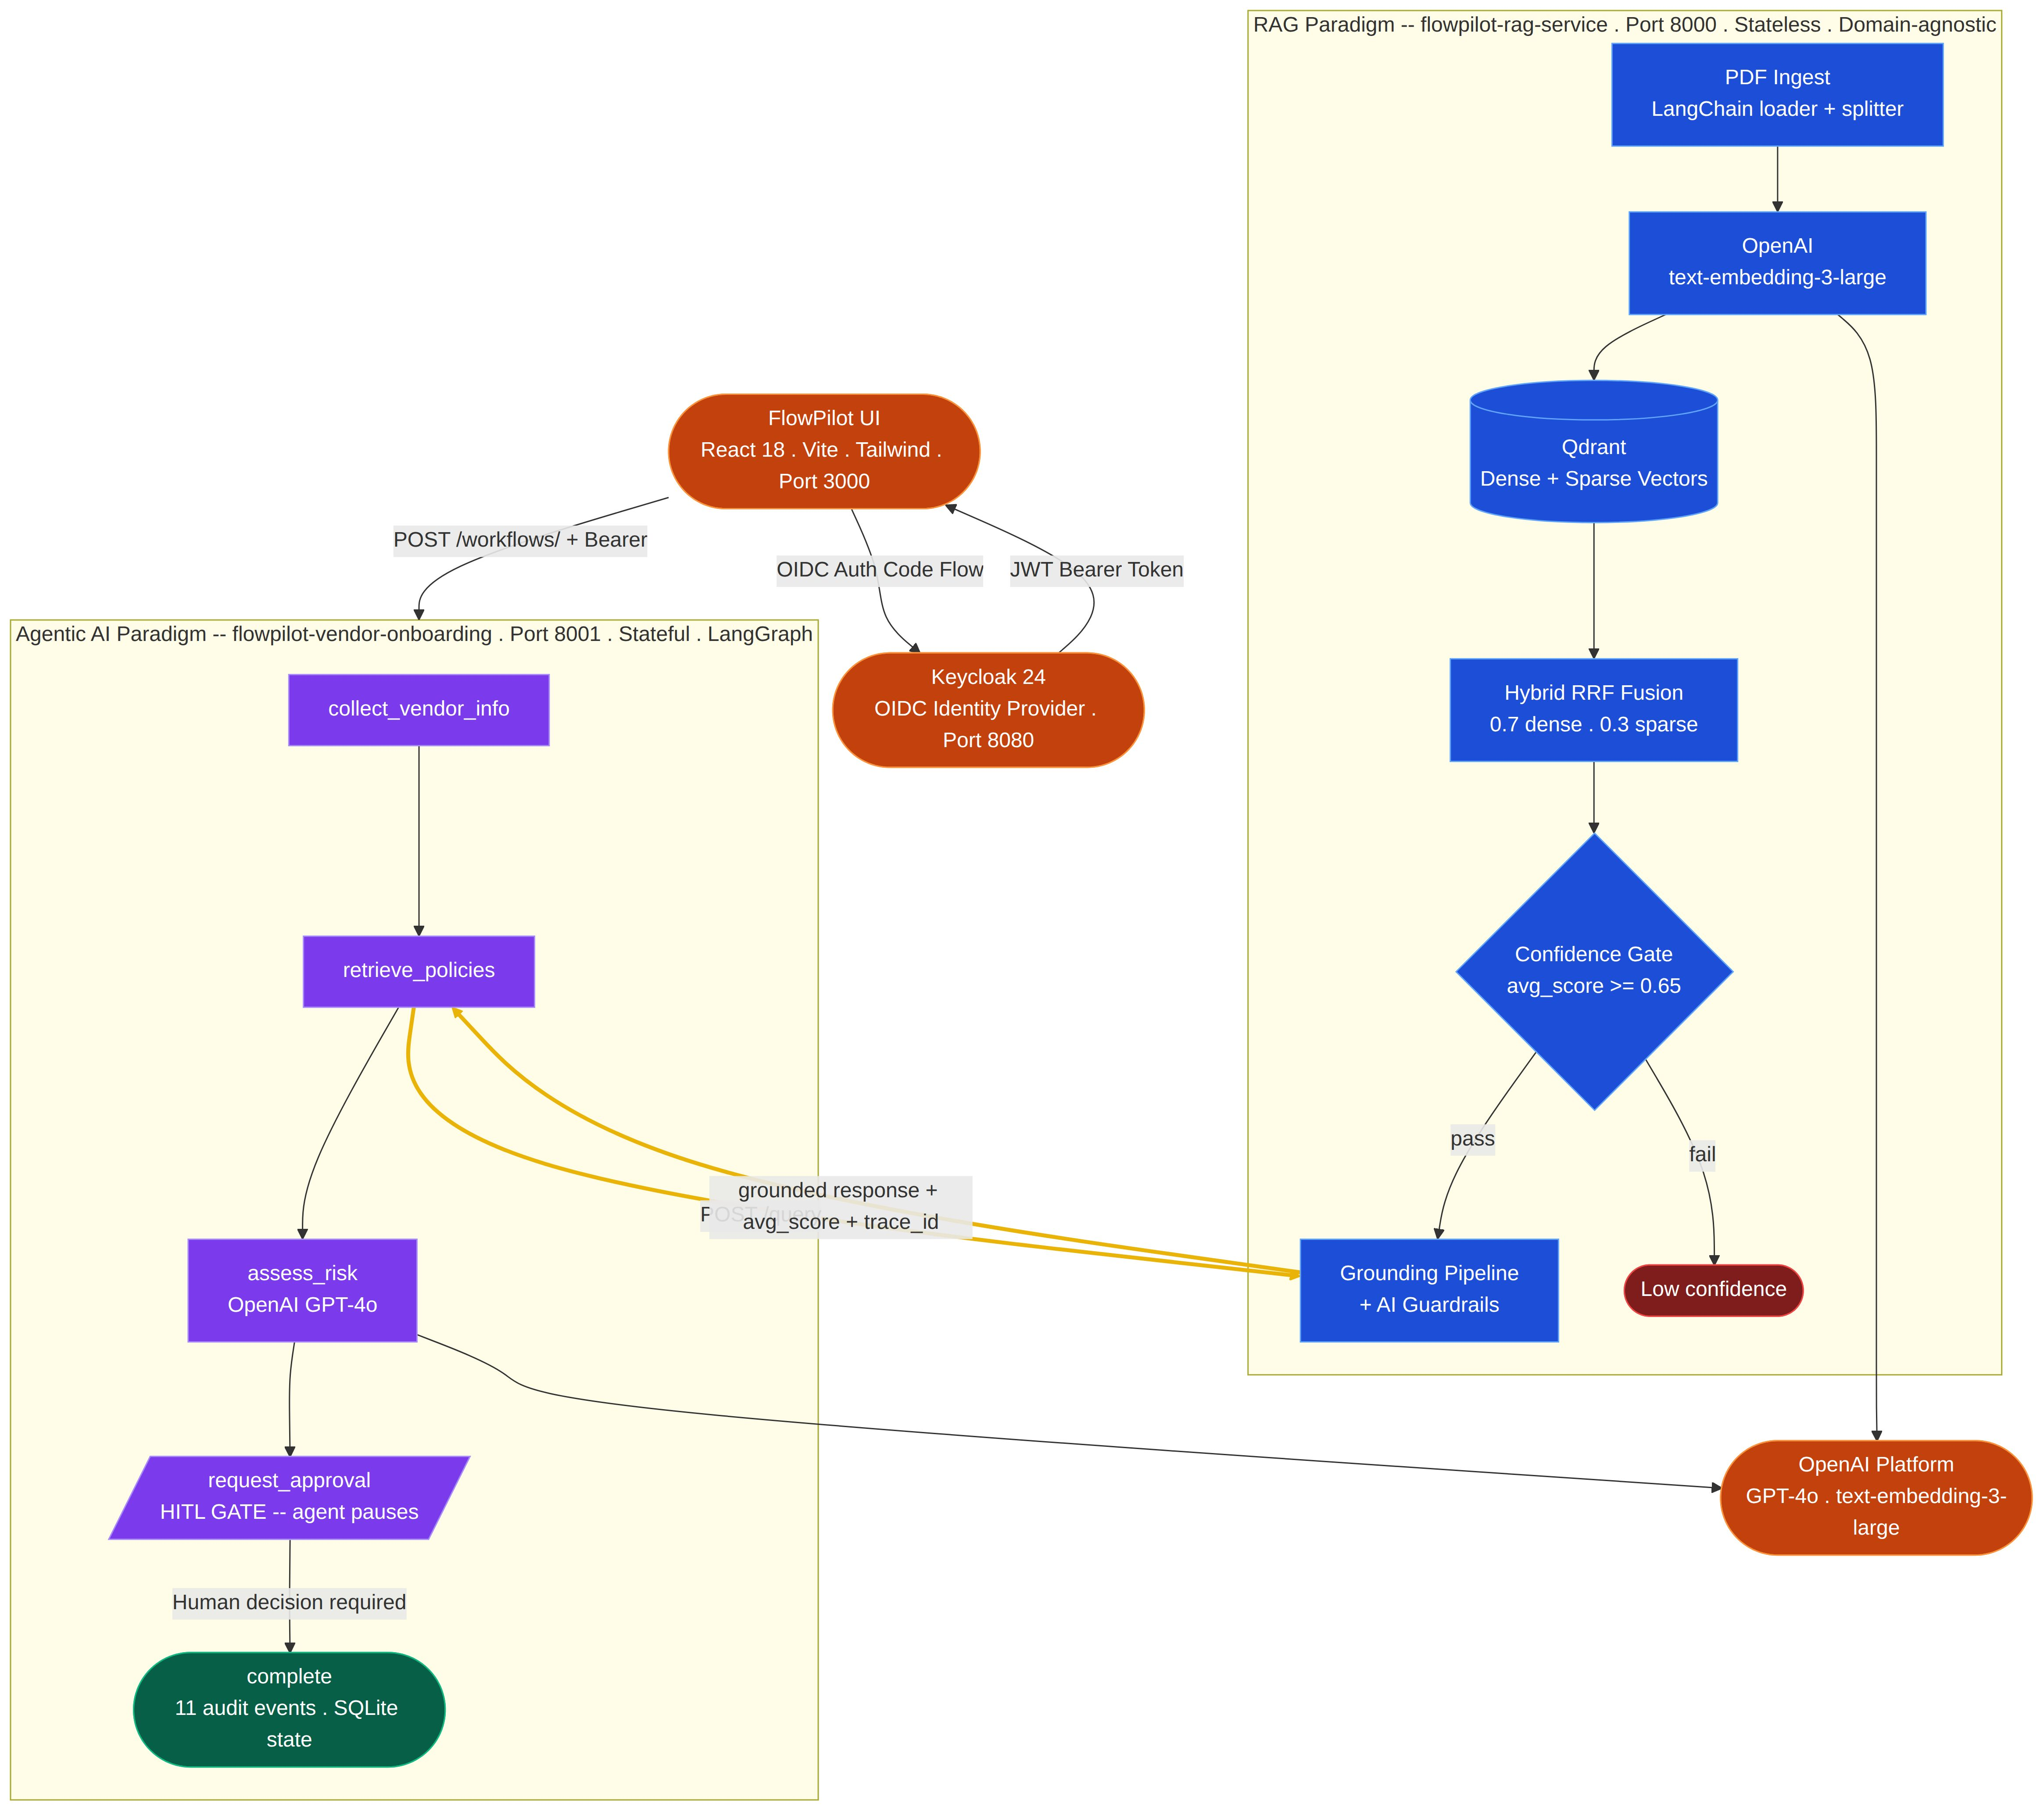
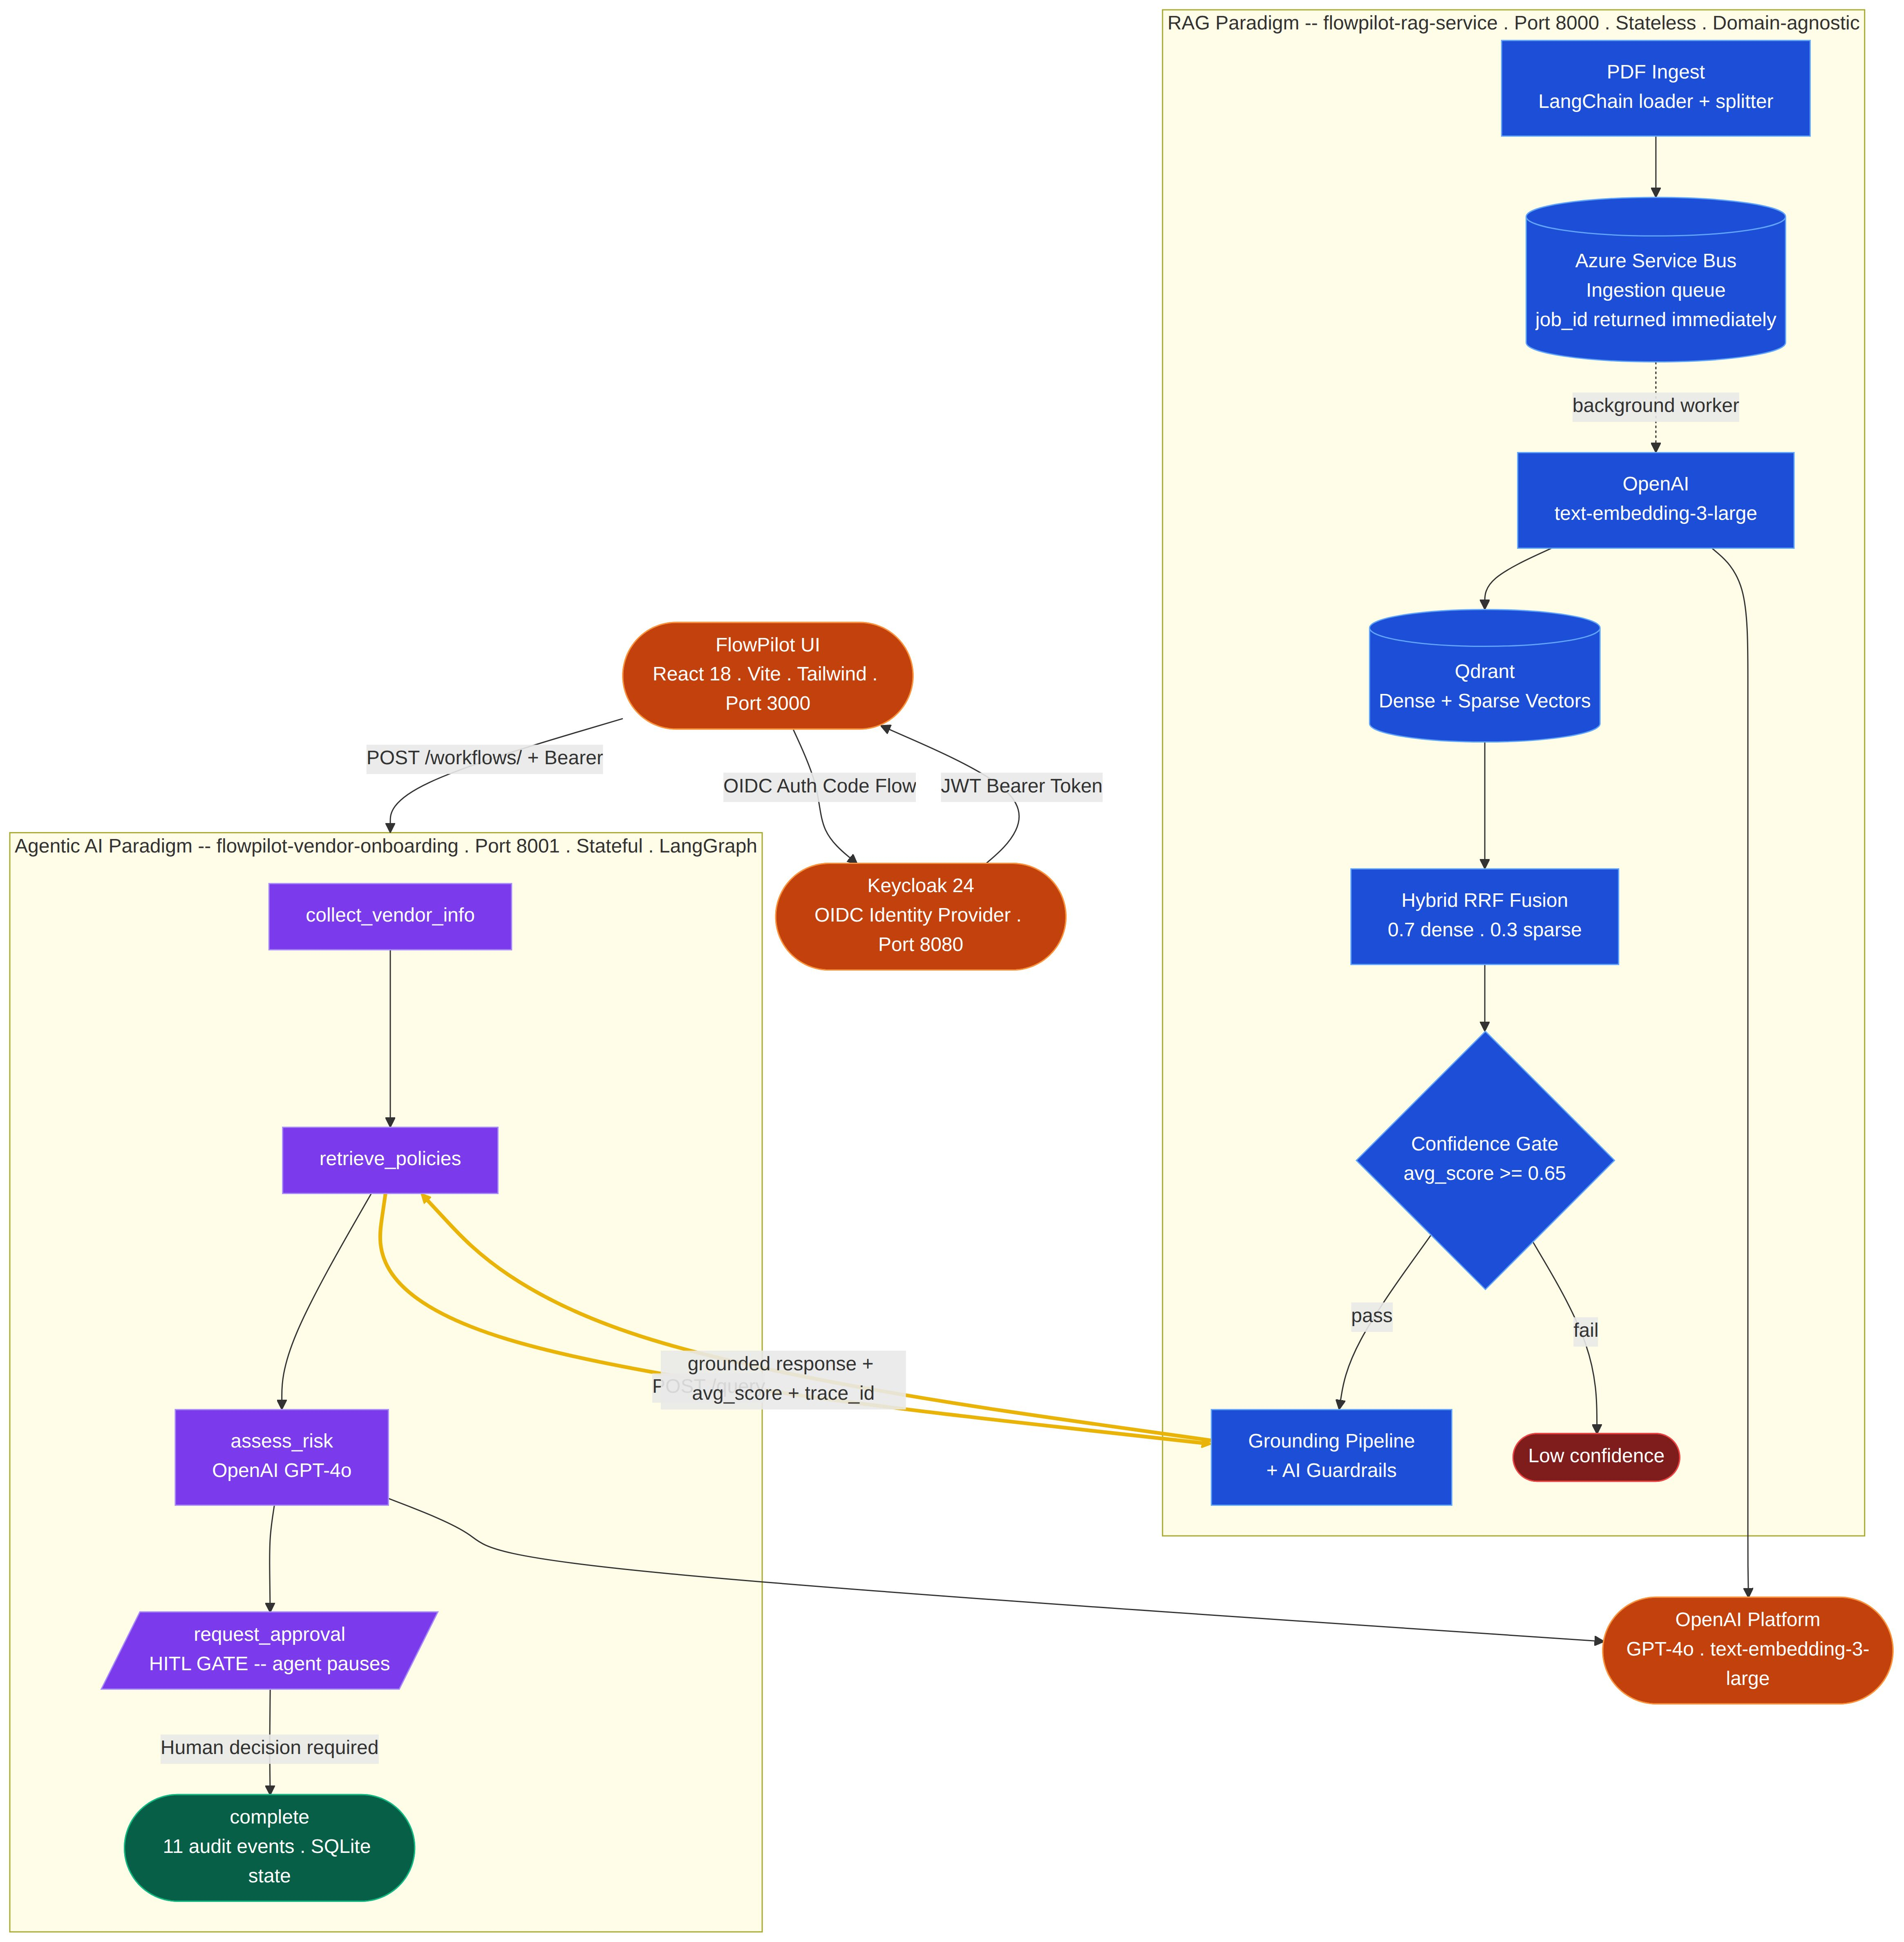
feat: ADR-013 Azure Service Bus — update all diagrams, README, ADR table, stack, release history

diff --git a/README.md b/README.md
@@ -184,6 +184,7 @@ Agentic AI applied where determinism suffices produces unpredictable, ungovernab
 | [ADR-010](adr/ADR-010-structlog-json-logging.md) | 🟠 Shared | Structured JSON logging over traditional logging |
 | [ADR-011](adr/ADR-011-no-reranking-layer.md) | 🔵 RAG | No dedicated reranking layer at portfolio scope |
 | [ADR-012](adr/ADR-012-keycloak-identity-provider.md) | 🟠 Shared | Keycloak as identity provider |
+| [ADR-013](adr/ADR-013-azure-service-bus-ingestion-queue.md) | 🔵 RAG | Azure Service Bus as async ingestion queue — production-ready by design |
 
 ---
 
@@ -333,10 +334,10 @@ FlowPilot is designed to operate as a **spoke** in the Microsoft Azure AI Foundr
 
 | Repository | Purpose |
 |---|---|
-| **flowpilot-docs** ← *you are here* | Architecture docs: C4 diagrams, 12 ADRs, governance model, sequence diagrams |
-| [flowpilot-rag-service](https://github.com/nitindra-soekhai/flowpilot-rag-service) | RAG: PDF ingestion, hybrid retrieval, grounding pipeline, guardrails |
-| [flowpilot-vendor-onboarding](https://github.com/nitindra-soekhai/flowpilot-vendor-onboarding) | Agentic AI: LangGraph state machine, HITL approval gate, SQLite state |
-| [flowpilot-ui](https://github.com/nitindra-soekhai/flowpilot-ui) | React 18 UI: 9 scenes, Keycloak OIDC, approval queue, audit trail |
+| **flowpilot-docs** ← *you are here* | Architecture docs: C4 diagrams, 13 ADRs, governance model, sequence diagrams |
+| [flowpilot-rag-service](https://github.com/nitindra-soekhai/flowpilot-rag-service) | RAG: async PDF ingestion (Azure Service Bus), hybrid retrieval, grounding pipeline, guardrails |
+| [flowpilot-vendor-onboarding](https://github.com/nitindra-soekhai/flowpilot-vendor-onboarding) | Agentic AI: LangGraph state machine, HITL approval gate, vendor registry, re-assessment |
+| [flowpilot-ui](https://github.com/nitindra-soekhai/flowpilot-ui) | React 18 UI: 9 scenes + Vendor Registry + Document Management, Keycloak OIDC, audit trail |
 
 ---
 
@@ -349,6 +350,7 @@ FlowPilot is designed to operate as a **spoke** in the Microsoft Azure AI Foundr
 | Embeddings | OpenAI text-embedding-3-large |
 | LLM | OpenAI GPT-4o |
 | Agentic orchestration | LangGraph — 5-node vendor assessment state machine |
+| Async ingestion queue | Azure Service Bus (production) · FastAPI BackgroundTasks (portfolio demo) |
 | Workflow state | SQLite via aiosqlite |
 | Backend | Python / FastAPI (both services) |
 | Identity provider | Keycloak 24 — OIDC/OAuth2, Docker-hosted |
@@ -375,6 +377,7 @@ cd flowpilot-ui && npm run dev                       # Terminal 3 → http://loc
 
 | Release | What it demonstrates |
 |---|---|
+| **v1.2-knowledge-base** *(planned)* | Async ingestion queue (Azure Service Bus, ADR-013), vendor registry, re-assessment, duplicate validation, Document Management scene, 13 ADRs |
 | **v1.1-authentication-ui** | Keycloak OIDC, React UI 9 scenes, real audit trail (11 events), ADR-012 |
 | **v1.0-final** | Complete platform, all ADRs, C4 diagrams, governance model |
 | **v0.3-iteration-2** | Operational resilience, AI governance, observability complete |